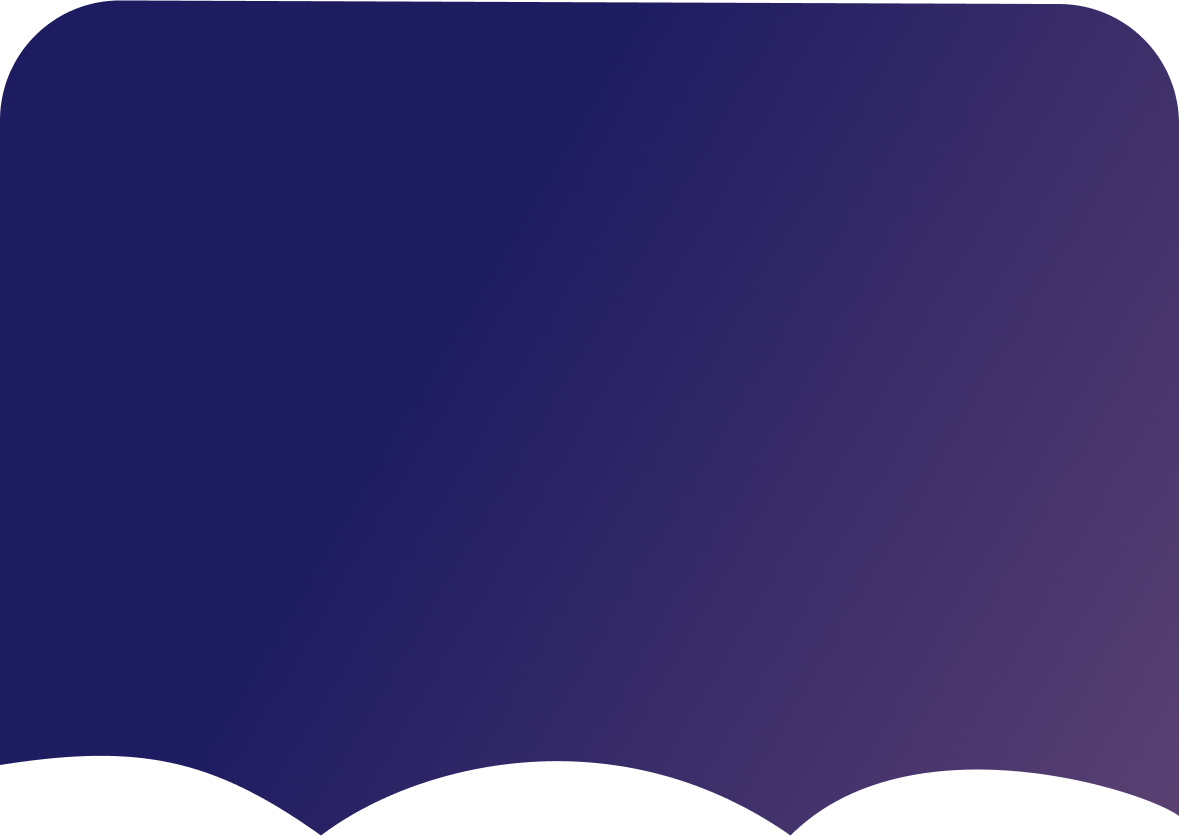
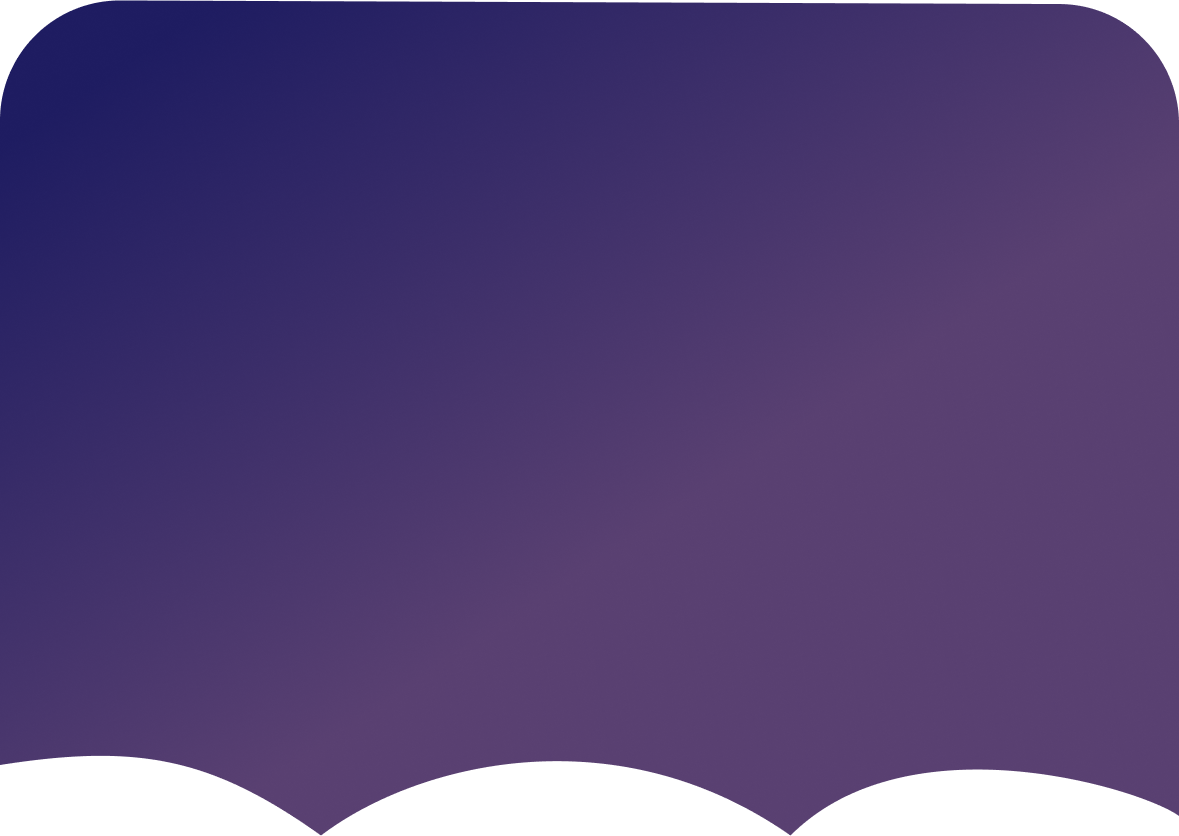
dark mode

diff --git a/src/screens/SignUpScreen.tsx b/src/screens/SignUpScreen.tsx
@@ -16,7 +16,7 @@ import { signupUser } from '../api/auth';
 import { SafeAreaView } from 'react-native-safe-area-context';
 import { StatusBar } from 'expo-status-bar';
 import { NativeStackNavigationProp } from '@react-navigation/native-stack';
-import { FontAwesome } from '@expo/vector-icons';
+import { FontAwesome, Ionicons } from '@expo/vector-icons';
 import CloudHeader from '../components/CloudHeader';
 import GoogleIcon from '../components/GoogleIcon';
 import { Colors, FontFamily, FontSize } from '../theme';
@@ -33,6 +33,8 @@ export default function SignUpScreen({ navigation }: Props) {
   const [email, setEmail] = useState('');
   const [password, setPassword] = useState('');
   const [confirmPassword, setConfirmPassword] = useState('');
+  const [showPassword, setShowPassword] = useState(false);
+  const [showConfirmPassword, setShowConfirmPassword] = useState(false);
   const [isLoading, setIsLoading] = useState(false);
 
   const handleSignup = async () => {
@@ -118,24 +120,34 @@ export default function SignUpScreen({ navigation }: Props) {
               />
 
               <Text style={[styles.label, { color: theme.labelText }]}>Password</Text>
-              <TextInput
-                style={[styles.input, { backgroundColor: theme.inputBg, borderColor: theme.inputBorder, color: theme.inputText }]}
-                value={password}
-                onChangeText={setPassword}
-                secureTextEntry
-                autoCapitalize="none"
-                placeholderTextColor={theme.placeholderColor}
-              />
+              <View style={styles.inputWrap}>
+                <TextInput
+                  style={[styles.input, styles.inputWithIcon, { backgroundColor: theme.inputBg, borderColor: theme.inputBorder, color: theme.inputText }]}
+                  value={password}
+                  onChangeText={setPassword}
+                  secureTextEntry={!showPassword}
+                  autoCapitalize="none"
+                  placeholderTextColor={theme.placeholderColor}
+                />
+                <TouchableOpacity style={styles.eyeBtn} onPress={() => setShowPassword(v => !v)} hitSlop={8}>
+                  <Ionicons name={showPassword ? 'eye-outline' : 'eye-off-outline'} size={20} color={theme.placeholderColor} />
+                </TouchableOpacity>
+              </View>
 
               <Text style={[styles.label, { color: theme.labelText }]}>Confirm Password</Text>
-              <TextInput
-                style={[styles.input, { marginBottom: 24, backgroundColor: theme.inputBg, borderColor: theme.inputBorder, color: theme.inputText }]}
-                value={confirmPassword}
-                onChangeText={setConfirmPassword}
-                secureTextEntry
-                autoCapitalize="none"
-                placeholderTextColor={theme.placeholderColor}
-              />
+              <View style={[styles.inputWrap, { marginBottom: 24 }]}>
+                <TextInput
+                  style={[styles.input, styles.inputWithIcon, { backgroundColor: theme.inputBg, borderColor: theme.inputBorder, color: theme.inputText }]}
+                  value={confirmPassword}
+                  onChangeText={setConfirmPassword}
+                  secureTextEntry={!showConfirmPassword}
+                  autoCapitalize="none"
+                  placeholderTextColor={theme.placeholderColor}
+                />
+                <TouchableOpacity style={styles.eyeBtn} onPress={() => setShowConfirmPassword(v => !v)} hitSlop={8}>
+                  <Ionicons name={showConfirmPassword ? 'eye-outline' : 'eye-off-outline'} size={20} color={theme.placeholderColor} />
+                </TouchableOpacity>
+              </View>
 
               <TouchableOpacity
                 style={styles.primaryBtn}
@@ -240,6 +252,9 @@ const styles = StyleSheet.create({
     backgroundColor: '#FAFBFF',
     marginBottom: 16,
   },
+  inputWrap: { marginBottom: 16 },
+  inputWithIcon: { marginBottom: 0, paddingRight: 48 },
+  eyeBtn: { position: 'absolute', right: 14, top: 0, bottom: 0, justifyContent: 'center' },
   primaryBtn: {
     backgroundColor: Colors.indigo,
     paddingVertical: 17,

diff --git a/src/screens/LoginScreen.tsx b/src/screens/LoginScreen.tsx
@@ -16,7 +16,7 @@ import { loginUser } from '../api/auth';
 import { SafeAreaView } from 'react-native-safe-area-context';
 import { StatusBar } from 'expo-status-bar';
 import { NativeStackNavigationProp } from '@react-navigation/native-stack';
-import { FontAwesome } from '@expo/vector-icons';
+import { FontAwesome, Ionicons } from '@expo/vector-icons';
 import CloudHeader from '../components/CloudHeader';
 import GoogleIcon from '../components/GoogleIcon';
 import { Colors, FontFamily, FontSize } from '../theme';
@@ -31,6 +31,7 @@ export default function LoginScreen({ navigation }: Props) {
   const theme = useAppTheme();
   const [email, setEmail] = useState('');
   const [password, setPassword] = useState('');
+  const [showPassword, setShowPassword] = useState(false);
   const [isLoading, setIsLoading] = useState(false);
 
   const handleLogin = async () => {
@@ -101,14 +102,19 @@ export default function LoginScreen({ navigation }: Props) {
               />
 
               <Text style={[styles.label, { color: theme.labelText }]}>Password</Text>
-              <TextInput
-                style={[styles.input, { backgroundColor: theme.inputBg, borderColor: theme.inputBorder, color: theme.inputText }]}
-                value={password}
-                onChangeText={setPassword}
-                secureTextEntry
-                autoCapitalize="none"
-                placeholderTextColor={theme.placeholderColor}
-              />
+              <View style={styles.inputWrap}>
+                <TextInput
+                  style={[styles.input, styles.inputWithIcon, { backgroundColor: theme.inputBg, borderColor: theme.inputBorder, color: theme.inputText }]}
+                  value={password}
+                  onChangeText={setPassword}
+                  secureTextEntry={!showPassword}
+                  autoCapitalize="none"
+                  placeholderTextColor={theme.placeholderColor}
+                />
+                <TouchableOpacity style={styles.eyeBtn} onPress={() => setShowPassword(v => !v)} hitSlop={8}>
+                  <Ionicons name={showPassword ? 'eye-outline' : 'eye-off-outline'} size={20} color={theme.placeholderColor} />
+                </TouchableOpacity>
+              </View>
 
               <TouchableOpacity style={styles.forgotWrap}>
                 <Text style={styles.forgotTxt}>Forgot Password?</Text>
@@ -217,6 +223,9 @@ const styles = StyleSheet.create({
     backgroundColor: '#FAFBFF',
     marginBottom: 16,
   },
+  inputWrap: { marginBottom: 16 },
+  inputWithIcon: { marginBottom: 0, paddingRight: 48 },
+  eyeBtn: { position: 'absolute', right: 14, top: 0, bottom: 0, justifyContent: 'center' },
   forgotWrap: { alignSelf: 'flex-end', marginBottom: 24, marginTop: -8 },
   forgotTxt: {
     fontFamily: FontFamily.semiBold,

diff --git a/src/screens/LandingScreen.tsx b/src/screens/LandingScreen.tsx
@@ -32,7 +32,8 @@ type Props = {
 
 export default function LandingScreen({ navigation }: Props) {
   const { width } = useWindowDimensions();
-  const { isDark } = useAppTheme();
+  const theme = useAppTheme();
+  const { isDark } = theme;
 
   const graphic = isDark ? DARK_GRAPHIC : LIGHT_GRAPHIC;
   const hill    = isDark ? DARK_HILL    : LIGHT_HILL;
@@ -41,8 +42,8 @@ export default function LandingScreen({ navigation }: Props) {
   const hillH    = hill ? width * aspectRatio(hill, 0.55) : 0;
 
   return (
-    <View style={{ flex: 1, backgroundColor: Colors.indigo }}>
-      <StatusBar style="light" />
+    <View style={{ flex: 1, backgroundColor: theme.background }}>
+      <StatusBar style={theme.statusBar} />
 
       <Image
         source={graphic}
@@ -61,24 +62,24 @@ export default function LandingScreen({ navigation }: Props) {
       <View style={styles.content}>
         <View style={styles.spacer} />
         <View style={styles.textBlock}>
-          <Text style={styles.title}>Your Sixth Sense for{'\n'}Local Health.</Text>
-          <Text style={styles.subtitle}>
+          <Text style={[styles.title, { color: theme.heading }]}>Your Sixth Sense for{'\n'}Local Health.</Text>
+          <Text style={[styles.subtitle, { color: isDark ? '#A3C7FF' : Colors.indigo }]}>
             Real-time health intelligence to protect your home and your community.
           </Text>
           <View style={styles.buttons}>
             <TouchableOpacity
-              style={styles.loginBtn}
+              style={[styles.loginBtn, { backgroundColor: isDark ? '#FFFFFF' : Colors.indigo }]}
               activeOpacity={0.85}
               onPress={() => navigation.navigate('Login')}
             >
-              <Text style={styles.loginTxt}>Login</Text>
+              <Text style={[styles.loginTxt, { color: isDark ? Colors.indigo : '#FFFFFF' }]}>Login</Text>
             </TouchableOpacity>
             <TouchableOpacity
-              style={styles.signupBtn}
+              style={[styles.signupBtn, { backgroundColor: isDark ? 'rgba(255,255,255,0.18)' : 'rgba(30,28,97,0.12)' }]}
               activeOpacity={0.85}
               onPress={() => navigation.navigate('SignUp')}
             >
-              <Text style={styles.signupTxt}>Sign up</Text>
+              <Text style={[styles.signupTxt, { color: isDark ? '#FFFFFF' : Colors.indigo }]}>Sign up</Text>
             </TouchableOpacity>
           </View>
         </View>

diff --git a/src/screens/DashboardScreen.tsx b/src/screens/DashboardScreen.tsx
@@ -307,18 +307,18 @@ export default function DashboardScreen({ navigation }: Props) {
               {/* Top row */}
               <View style={styles.headerTopRow}>
                 <TouchableOpacity style={styles.locationPill} activeOpacity={0.7}>
-                  <Text style={styles.locationTxt}>{t('common.current_location')}</Text>
-                  <Ionicons name="chevron-down" size={14} color={Colors.indigo} />
+                  <Text style={[styles.locationTxt, { color: theme.heading }]}>{t('common.current_location')}</Text>
+                  <Ionicons name="chevron-down" size={14} color={theme.heading} />
                 </TouchableOpacity>
                 <TouchableOpacity onPress={() => setHelpOpen(true)} hitSlop={12}>
-                  <Ionicons name="information-circle-outline" size={26} color={Colors.indigo} />
+                  <Ionicons name="information-circle-outline" size={26} color={theme.heading} />
                 </TouchableOpacity>
               </View>
 
               <View style={{ flex: 1 }} />
               {/* Greeting */}
-              <Text style={styles.dateText}>{formatDate(new Date())}</Text>
-              <Text style={styles.greeting} numberOfLines={2}>
+              <Text style={[styles.dateText, { color: theme.isDark ? '#A3C7FF' : Colors.indigo }]}>{formatDate(new Date())}</Text>
+              <Text style={[styles.greeting, { color: theme.heading }]} numberOfLines={2}>
                 {t(getGreetingKey())},{'\n'}Thashin
               </Text>
             </View>
@@ -524,18 +524,18 @@ const styles = StyleSheet.create({
   locationTxt: {
     fontFamily: FontFamily.semiBold,
     fontSize: FontSize.md,
-    color: Colors.indigo,
+    color: Colors.white,
   },
   dateText: {
     fontFamily: FontFamily.regular,
     fontSize: FontSize.sm,
-    color: Colors.indigo,
+    color: '#A3C7FF',
     marginBottom: 4,
   },
   greeting: {
     fontFamily: FontFamily.extraBold,
     fontSize: 40,
-    color: Colors.indigo,
+    color: Colors.white,
     lineHeight: 50,
   },
 

diff --git a/src/hooks/useAppTheme.ts b/src/hooks/useAppTheme.ts
@@ -13,7 +13,7 @@ export function useAppTheme() {
     background:         isDark ? Colors.indigo        : Colors.cloudBlue,
     surface:            isDark ? 'rgba(255,255,255,0.15)' : Colors.white,
     surfaceSecondary:   isDark ? 'rgba(255,255,255,0.08)' : Colors.cloudBlue,
-    surfaceModal:       isDark ? 'rgba(255,255,255,0.12)' : Colors.white,
+    surfaceModal:       isDark ? '#403E79'                : Colors.white,
 
     // ── Text ─────────────────────────────────────────────────
     heading:            isDark ? '#FFFFFF'            : Colors.indigo,
